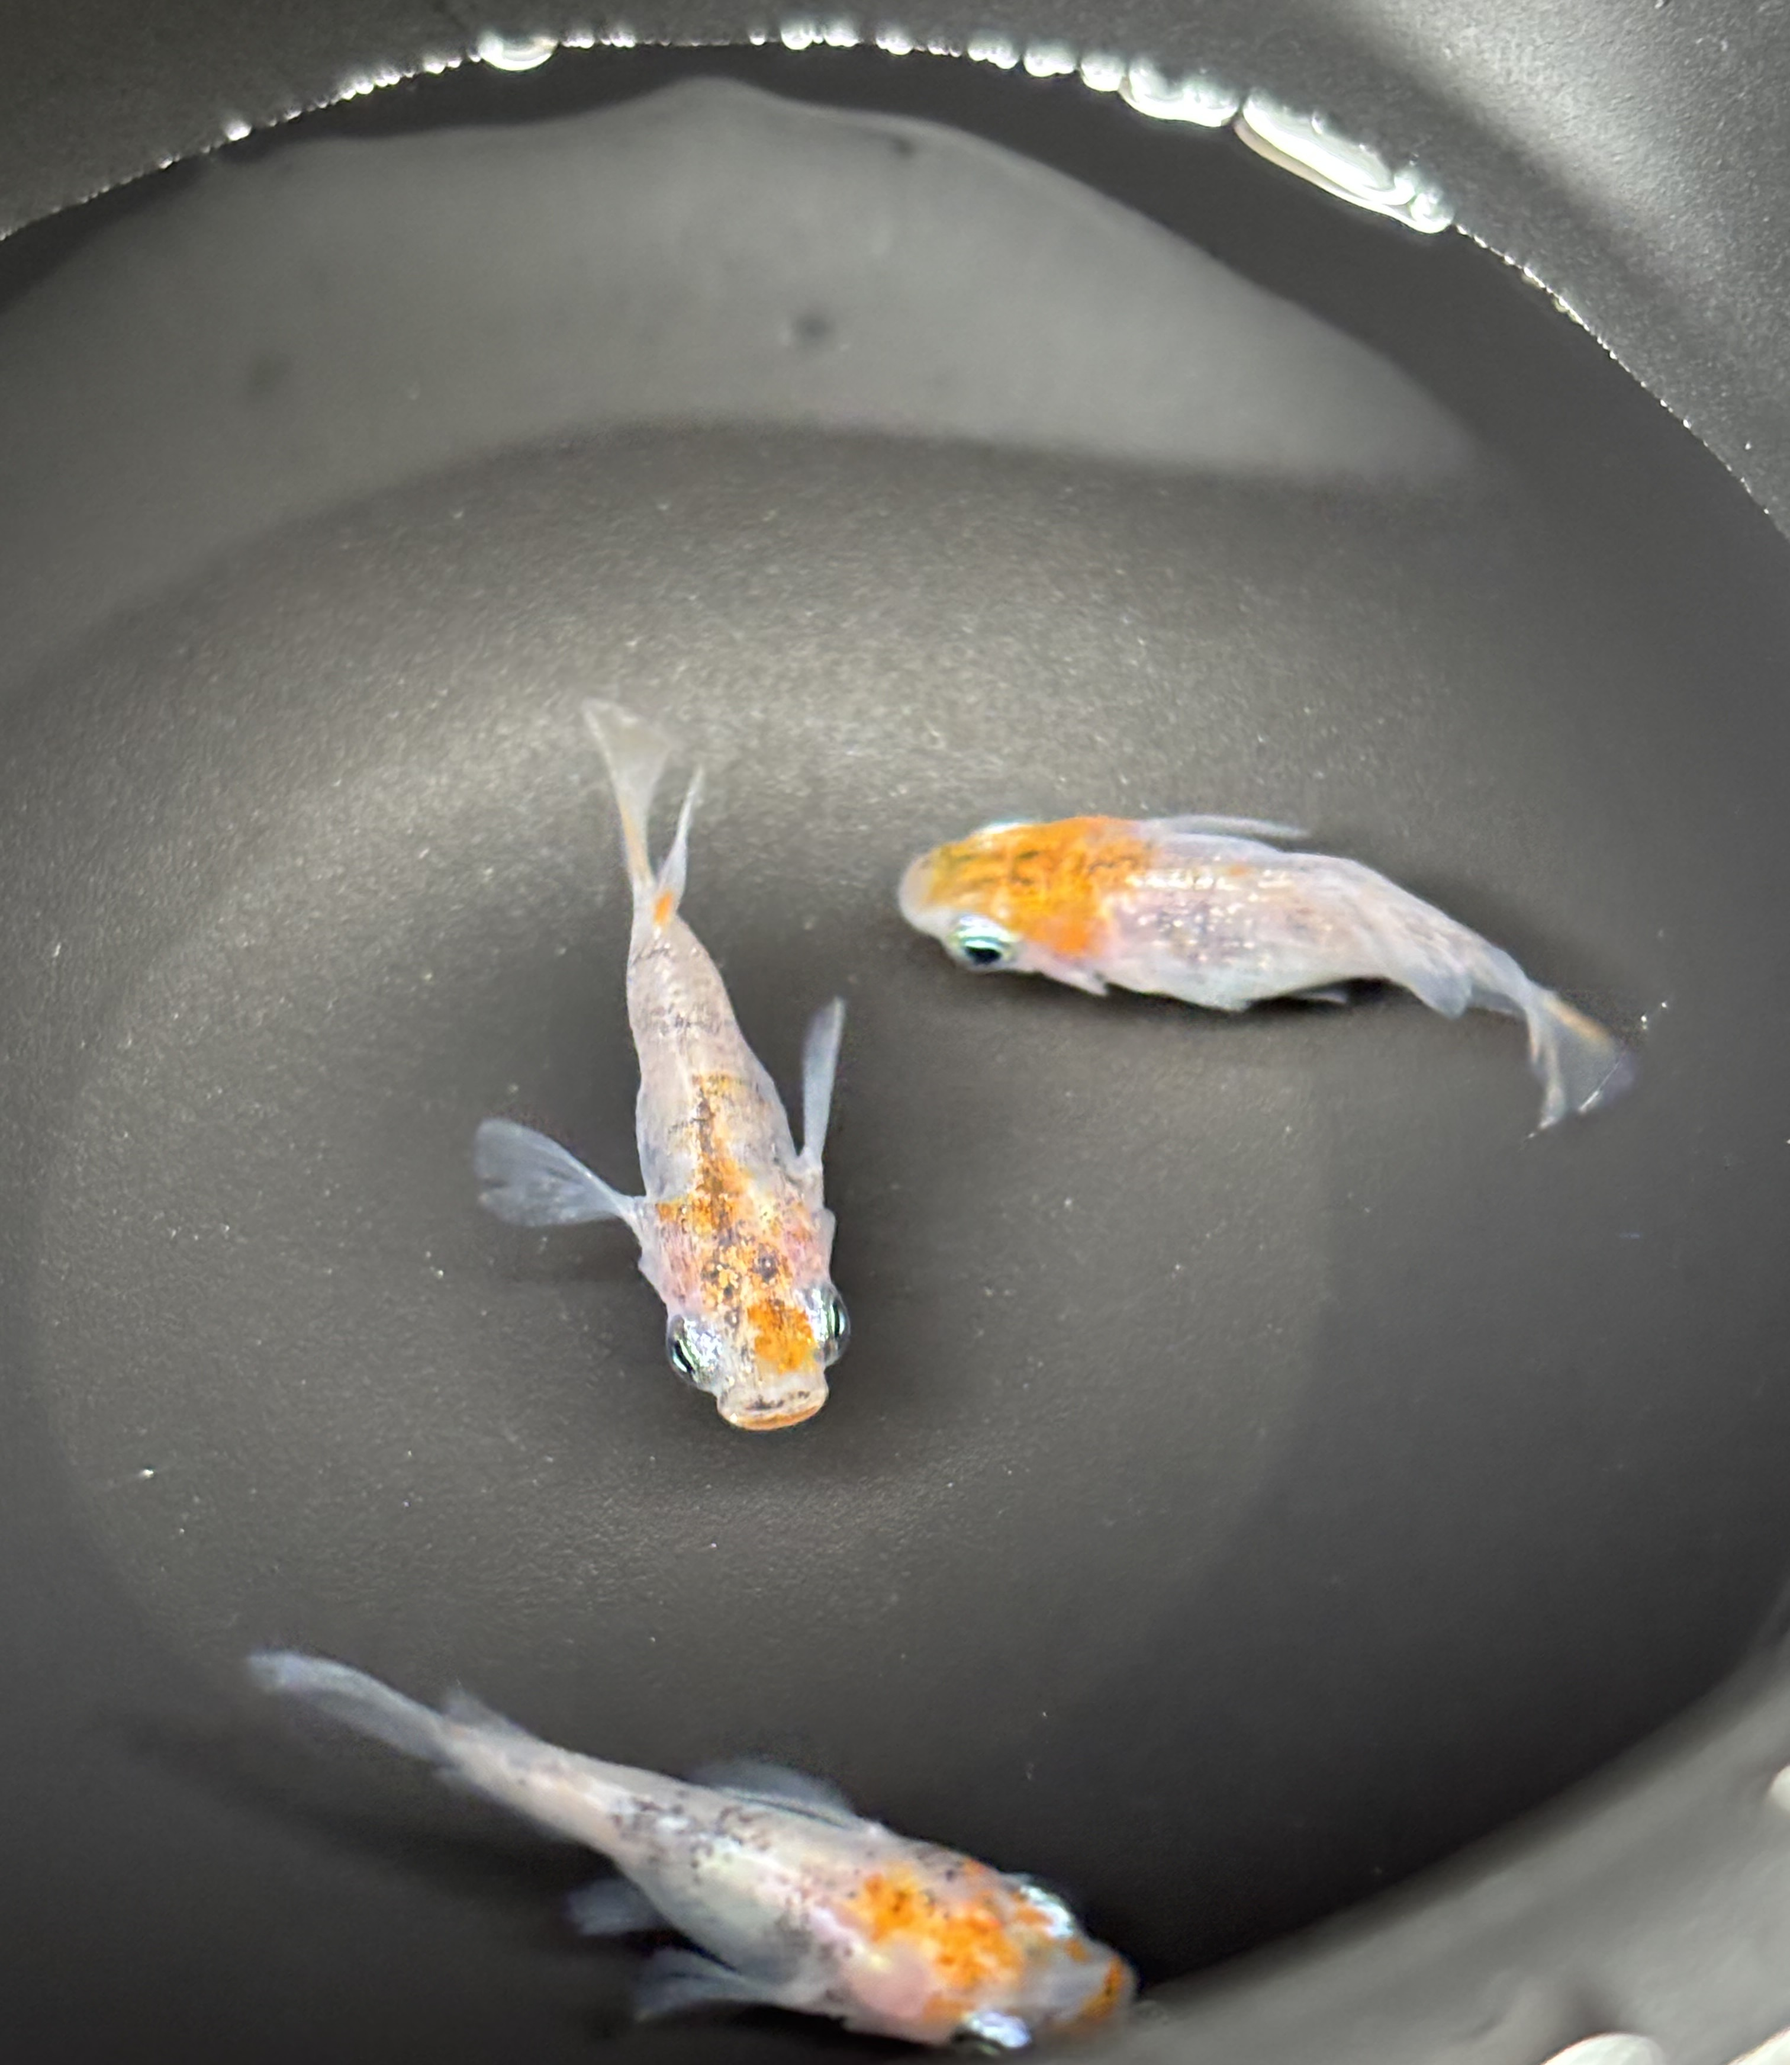
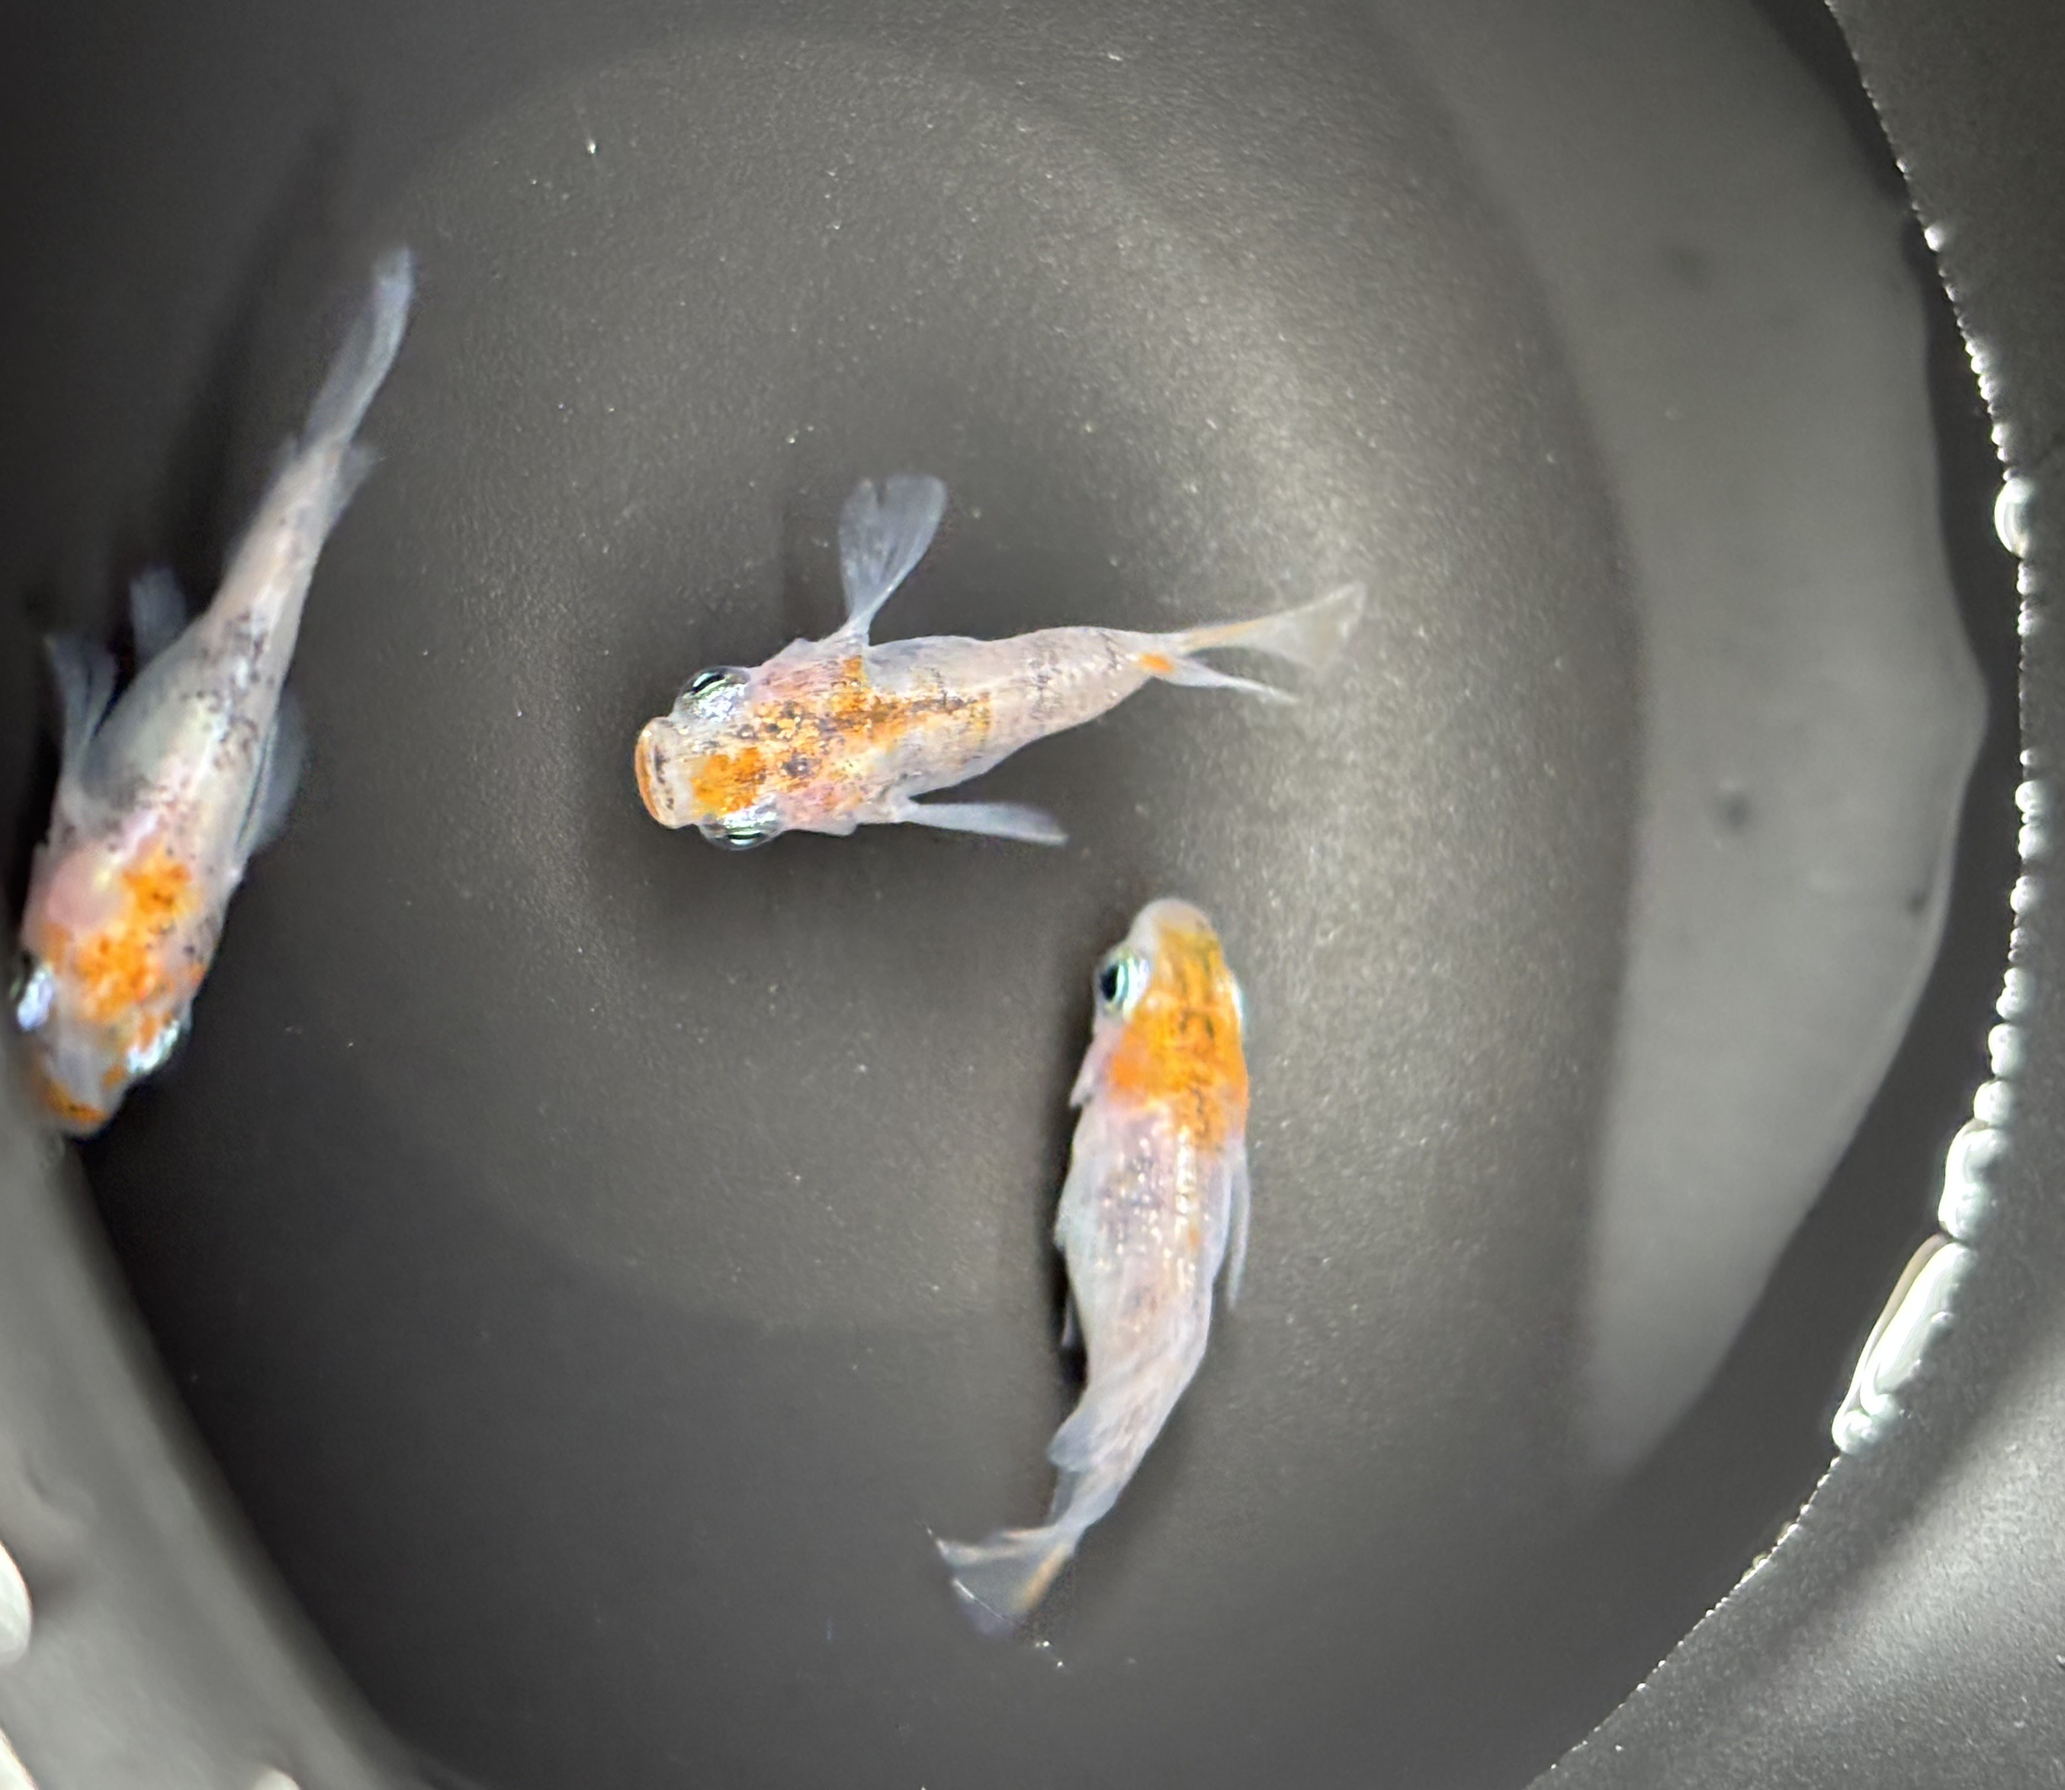
写真の向きを修正

diff --git a/css/style.css b/css/style.css
@@ -1,0 +1,165 @@
+/* ダルマちゃんめだか 共通スタイル */
+
+:root {
+  --bg: #FAFAF8;
+  --header-bg: #FFFFFF;
+  --ink: #222222;
+  --radius: 4px;
+  --gutter: 20px;
+  --max-width: 1000px;
+}
+
+* {
+  box-sizing: border-box;
+}
+
+body {
+  margin: 0;
+  background: var(--bg);
+  color: var(--ink);
+  font-family: "Noto Sans JP", sans-serif;
+  line-height: 1.9;
+}
+
+img {
+  display: block;
+  max-width: 100%;
+}
+
+a {
+  color: inherit;
+}
+
+/* ヘッダー（サイト名の帯） */
+.site-header {
+  background: var(--header-bg);
+  border-bottom: 1px solid var(--ink);
+}
+
+.site-header__inner {
+  max-width: var(--max-width);
+  margin: 0 auto;
+  padding: 16px var(--gutter);
+  display: flex;
+  flex-wrap: wrap;
+  align-items: center;
+  justify-content: space-between;
+  gap: 8px 24px;
+}
+
+.site-title {
+  margin: 0;
+  font-family: "Shippori Mincho", serif;
+  font-size: 1.6rem;
+  font-weight: 700;
+  letter-spacing: 0.08em;
+}
+
+.site-title a {
+  text-decoration: none;
+}
+
+.site-nav ul {
+  margin: 0;
+  padding: 0;
+  list-style: none;
+  display: flex;
+  flex-wrap: wrap;
+  gap: 4px 24px;
+}
+
+.site-nav a {
+  font-weight: 700;
+  font-size: 0.95rem;
+  text-decoration: none;
+  padding: 4px 0;
+  border-bottom: 2px solid transparent;
+}
+
+.site-nav a:hover,
+.site-nav a[aria-current="page"] {
+  border-bottom-color: var(--ink);
+}
+
+/* メイン */
+.container {
+  max-width: var(--max-width);
+  margin: 0 auto;
+  padding: 40px var(--gutter);
+}
+
+/* ボタン：主要は黒塗り、それ以外は黒枠 */
+.btn {
+  display: inline-block;
+  min-width: 160px;
+  padding: 12px 28px;
+  border: 2px solid var(--ink);
+  border-radius: var(--radius);
+  background: transparent;
+  color: var(--ink);
+  font-family: inherit;
+  font-size: 1rem;
+  font-weight: 700;
+  text-align: center;
+  text-decoration: none;
+  cursor: pointer;
+}
+
+.btn--primary {
+  background: var(--ink);
+  color: var(--header-bg);
+}
+
+.btn:hover {
+  opacity: 0.8;
+}
+
+.btn:focus-visible {
+  outline: 3px solid var(--ink);
+  outline-offset: 3px;
+}
+
+/* ホーム */
+.hero {
+  margin: 0;
+}
+
+/* 横長(4:3)に切り抜く。メダカが写っている下寄りの位置を残す */
+.hero img {
+  width: 100%;
+  max-width: 720px;
+  aspect-ratio: 4 / 3;
+  object-fit: cover;
+  object-position: 50% 60%;
+  margin: 0 auto;
+  border-radius: var(--radius);
+}
+
+.intro {
+  text-align: center;
+  padding-top: 32px;
+}
+
+.intro p {
+  margin: 0 auto 28px;
+  max-width: 34em;
+}
+
+.intro__buttons {
+  display: flex;
+  flex-wrap: wrap;
+  justify-content: center;
+  gap: 16px;
+}
+
+/* フッター */
+.site-footer {
+  border-top: 1px solid var(--ink);
+  padding: 24px var(--gutter);
+  text-align: center;
+  font-size: 0.85rem;
+}
+
+.site-footer p {
+  margin: 0;
+}

diff --git a/index.html b/index.html
@@ -1,0 +1,50 @@
+<!DOCTYPE html>
+<html lang="ja">
+<head>
+  <meta charset="UTF-8">
+  <meta name="viewport" content="width=device-width, initial-scale=1">
+  <title>ダルマちゃんめだか</title>
+  <meta name="description" content="ダルマメダカ専門のサイト「ダルマちゃんめだか」。飼育しているダルマメダカをご紹介しています。">
+  <link rel="preconnect" href="https://fonts.googleapis.com">
+  <link rel="preconnect" href="https://fonts.gstatic.com" crossorigin>
+  <link href="https://fonts.googleapis.com/css2?family=Noto+Sans+JP:wght@400;700&family=Shippori+Mincho:wght@700&display=swap" rel="stylesheet">
+  <link rel="stylesheet" href="css/style.css">
+</head>
+<body>
+  <header class="site-header">
+    <div class="site-header__inner">
+      <h1 class="site-title"><a href="index.html">ダルマちゃんめだか</a></h1>
+      <nav class="site-nav" aria-label="メインメニュー">
+        <ul>
+          <li><a href="index.html" aria-current="page">ホーム</a></li>
+          <li><a href="shop.html">ショップ</a></li>
+          <li><a href="varieties.html">品種紹介</a></li>
+          <li><a href="contact.html">お問い合わせ</a></li>
+        </ul>
+      </nav>
+    </div>
+  </header>
+
+  <main class="container">
+    <figure class="hero">
+      <img src="img/web/amaterasu1.jpg" alt="黒い容器を上から撮影した、アマテラスダルマのメダカ3匹">
+    </figure>
+
+    <section class="intro">
+      <p>
+        ダルマメダカが大好きで、心を込めて大切に育てています。<br>
+        ずんぐりとした体つきと、一匹ごとに違う色や模様の美しさをご覧ください。<br>
+        気に入った子がいたら、ゆっくり見ていってください。
+      </p>
+      <div class="intro__buttons">
+        <a class="btn btn--primary" href="varieties.html">品種紹介を見る</a>
+        <a class="btn" href="shop.html">ショップへ</a>
+      </div>
+    </section>
+  </main>
+
+  <footer class="site-footer">
+    <p>&copy; ダルマちゃんめだか</p>
+  </footer>
+</body>
+</html>
